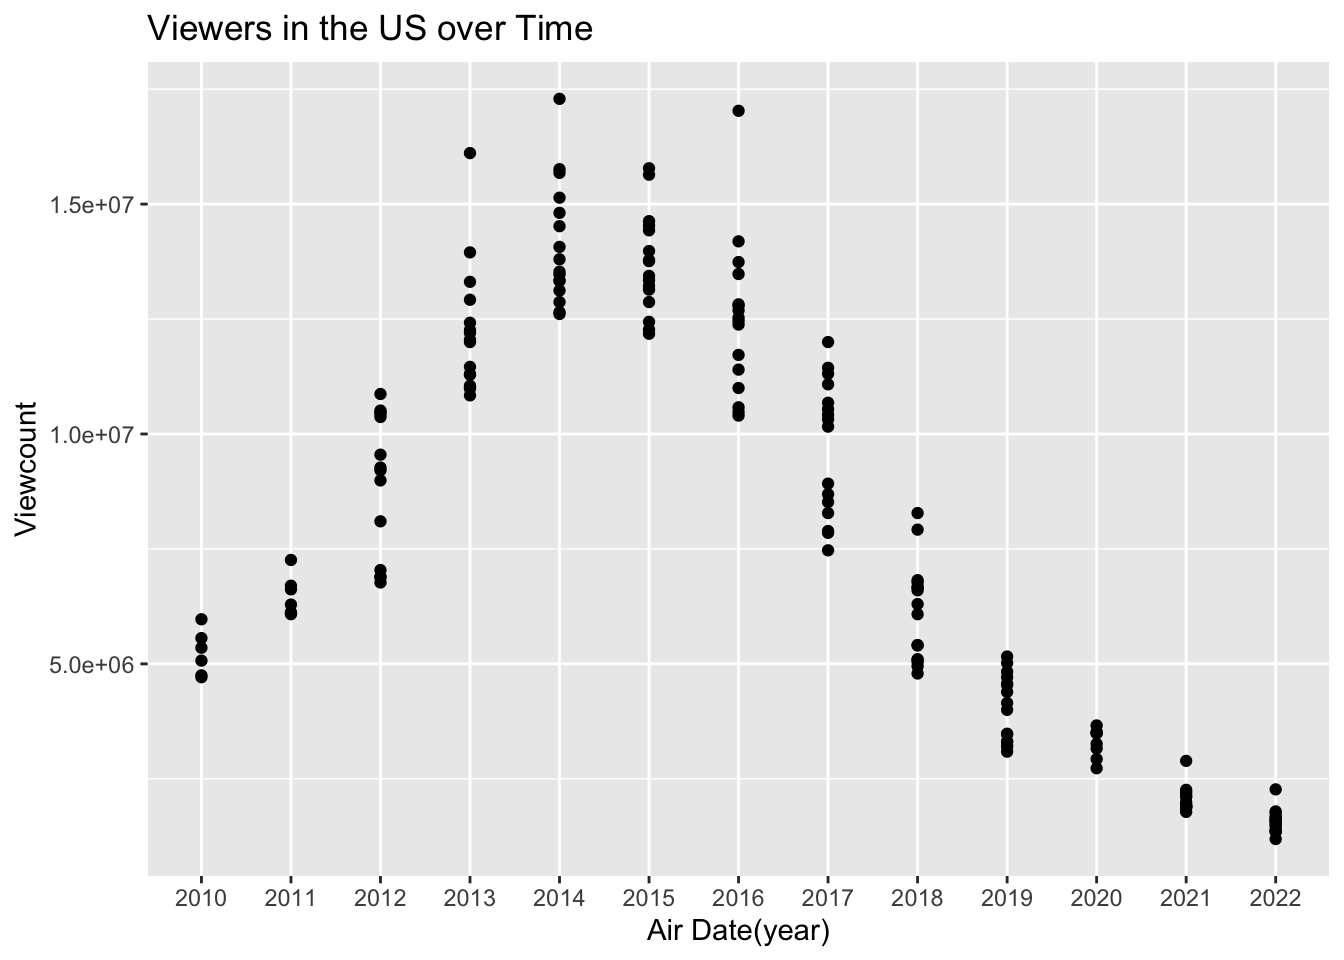
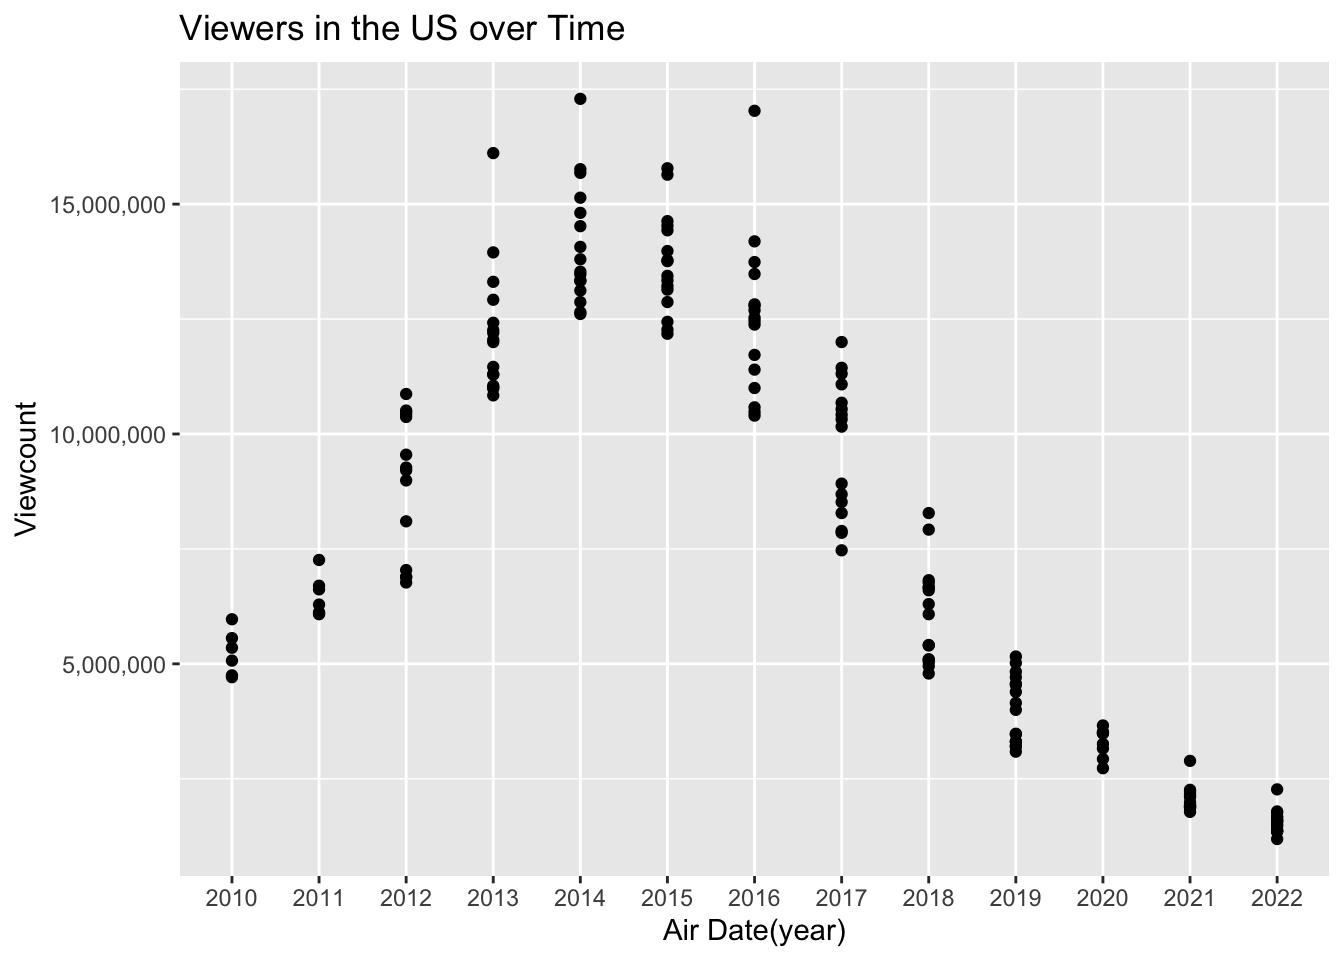
Interim Submission

diff --git a/docs/DataStory.html b/docs/DataStory.html
@@ -119,7 +119,7 @@ ul.task-list li input[type="checkbox"] {
   <ul>
   <li><a href="#the-walking-dead" id="toc-the-walking-dead" class="nav-link active" data-scroll-target="#the-walking-dead">The Walking Dead</a>
   <ul class="collapse">
-  <li><a href="#audience-reception" id="toc-audience-reception" class="nav-link" data-scroll-target="#audience-reception">Audience Reception</a></li>
+  <li><a href="#data-narrative" id="toc-data-narrative" class="nav-link" data-scroll-target="#data-narrative">Data Narrative</a></li>
   <li><a href="#main-question" id="toc-main-question" class="nav-link" data-scroll-target="#main-question">Main Question:</a></li>
   <li><a href="#data-set" id="toc-data-set" class="nav-link" data-scroll-target="#data-set">Data Set</a>
   <ul class="collapse">
@@ -165,9 +165,13 @@ ul.task-list li input[type="checkbox"] {
 </div>
 <p><a href="https://en.wikipedia.org/wiki/The_Walking_Dead_(TV_series)">The Walking Dead</a> is an American TV show that ran for 11 seasons since 2010 and ended with its last episode in 2022. It is set in a <b> post-apocalyptic world </b> and follows a group of survivors.</p>
 <p>The group expands, travels and goes through many moral and physical challenges. Over time, members of this “family” get killed off, resulting in a <b>high emotional reaction</b> among its audience.</p>
-<section id="audience-reception" class="level2">
-<h2 class="anchored" data-anchor-id="audience-reception">Audience Reception</h2>
-<p>This analysis aims to understand the implications of having a loyal fanbase, having a dramatic and gory genre, and having a long run time. It is expected for the show to undergo ups and downs.</p>
+<section id="data-narrative" class="level3">
+<h3 class="anchored" data-anchor-id="data-narrative">Data Narrative</h3>
+<p>This analysis aims to understand the reasons why this well-loved show, given its loyal fanbase, a dramatic and gory genre, and a long run time, experienced a fall from grace.</p>
+<p>According to the <a href="https://www.latimes.com/entertainment-arts/story/2022-11-20/the-walking-dead-took-the-television-revolution-to-a-whole-new-omigod-what-is-that-level">Lost Angeles Times</a>, <strong>The Walking Dead</strong> is a piece of fictional media that is ingrained in the lives of many families in America and internationally - and it was due to its ability to subvert traditional expectations surrounding TV shows.</p>
+<p>Furthermore, in light of the <strong>2023 Writer’s Strike</strong> which aimed at fair compensation and has negatively impacted many productions, <a href="https://www.forbes.com/sites/paultassi/2023/09/02/amc-brokers-a-strike-deal-so-the-walking-dead-can-start-filming-again/?sh=5793fc8c9dc1">Forbes</a> mentioned that its spin-offs were not affected, but I believe that the grievances surrounding writers in America have affected the quality of the show over the years.</p>
+<p>On a personal level, the show is one I grew up with, and I had witnessed first-hand its monumental rise and devastating fall. Towards, the end, I saw a significant drop in engagement worldwide, with <a href="https://www.rollingstone.com/tv-movies/tv-movie-news/the-walking-dead-what-the-hell-happened-to-this-show-627893/">Rolling Stone</a> theorising that its drop in popularity was due to narrative choices.</p>
+<p>However, I want to look at more numerical perspectives.</p>
 </section>
 <section id="main-question" class="level2">
 <h2 class="anchored" data-anchor-id="main-question">Main Question:</h2>
@@ -202,7 +206,7 @@ ul.task-list li input[type="checkbox"] {
 </section>
 <section id="answering-the-question" class="level2">
 <h2 class="anchored" data-anchor-id="answering-the-question">Answering the Question:</h2>
-<p>How to answer?: - comparing variable: <em>“us_viewers”</em> against <em>“original_air_date.”</em> - comparing variable: <em>“directed_by”</em> against <em>“us_viewers”</em> - comparing variable: <em>“written_by”</em> against <em>“us_viewers”</em> - comparing variable: count of <em>“season”</em> against <em>“us_viewers”</em></p>
+<p>How to answer?: - comparing variable: <em>“us_viewers”</em> against <em>“original_air_date.”</em> to see how if a particular year has some significance to the success or failure - comparing variable: <em>“directed_by”</em> against <em>“us_viewers”</em> to see which directors are more influential, and by extension, responsible for its success or failure - comparing variable: <em>“written_by”</em> against <em>“us_viewers”</em> to see which writers are influential and thereby responsible for its success or failure, with focus on narrative elements. - comparing variable: <em>“imdb_rating”</em> against <em>“seasons”</em> to support or challenge the insights from viewcount and draw links to the writers and directors of the show</p>
 <p><em>Click on the <a href="https://nadia-irdina.github.io/nadia-irdina-local.github.io/insights.html">“Insights”</a> page to see results.</em></p>
 
 

diff --git a/docs/insights.html b/docs/insights.html
@@ -165,18 +165,6 @@ ul.task-list li input[type="checkbox"] {
 <p>“original_air_date” indicates the date in which the episode is released, in YEAR-MONTH-DAY format.</p>
 <p>“us_viewers” indicate the number of viewers from the US that watched the episode.</p>
 <div class="cell">
-<div class="cell-output cell-output-stderr">
-<pre><code>── Attaching core tidyverse packages ──────────────────────── tidyverse 2.0.0 ──
-✔ dplyr     1.1.4     ✔ readr     2.1.5
-✔ forcats   1.0.0     ✔ stringr   1.5.1
-✔ ggplot2   3.4.4     ✔ tibble    3.2.1
-✔ lubridate 1.9.3     ✔ tidyr     1.3.1
-✔ purrr     1.0.2     
-── Conflicts ────────────────────────────────────────── tidyverse_conflicts() ──
-✖ dplyr::filter() masks stats::filter()
-✖ dplyr::lag()    masks stats::lag()
-ℹ Use the conflicted package (&lt;http://conflicted.r-lib.org/&gt;) to force all conflicts to become errors</code></pre>
-</div>
 <div class="cell-output cell-output-stdout">
 <pre><code>Rows: 177
 Columns: 8
@@ -194,8 +182,8 @@ $ us_viewers            &lt;dbl&gt; 5350000, 4710000, 5070000, 4750000, 5560000,
 <section id="comparing-viewership-over-time" class="level2">
 <h2 class="anchored" data-anchor-id="comparing-viewership-over-time">Comparing Viewership Over Time</h2>
 <div class="cell">
-<div class="cell-output cell-output-error">
-<pre><code>Error in comma_format(): could not find function "comma_format"</code></pre>
+<div class="cell-output-display">
+<p><img src="insights_files/figure-html/unnamed-chunk-2-1.png" class="img-fluid" width="672"></p>
 </div>
 </div>
 <p>Changing the format of “original_air_date” variable, the episodes are grouped into the years they are released in from season 1 to 11. Since a new season is published every year for 11 years (on average), plotting the viewcount provides insight to where the show succeeded and where it dipped in audience popularity.</p>
@@ -204,20 +192,6 @@ $ us_viewers            &lt;dbl&gt; 5350000, 4710000, 5070000, 4750000, 5560000,
 <h3 class="anchored" data-anchor-id="comparing-viewership-over-time-grouped-by-season">Comparing Viewership Over Time, grouped by Season</h3>
 <p>Colour-coding the seasons in the graph better indicates which seasons won the hearts of audiences. It is evident that seasons 5 and 6 hold popularity among viewers, and more recent releases, such as season 7 onwards, its popularity wavers.</p>
 <div class="cell">
-<div class="cell-output cell-output-stderr">
-<pre><code>
-Attaching package: 'scales'</code></pre>
-</div>
-<div class="cell-output cell-output-stderr">
-<pre><code>The following object is masked from 'package:purrr':
-
-    discard</code></pre>
-</div>
-<div class="cell-output cell-output-stderr">
-<pre><code>The following object is masked from 'package:readr':
-
-    col_factor</code></pre>
-</div>
 <div class="cell-output-display">
 <p><img src="insights_files/figure-html/unnamed-chunk-3-1.png" class="img-fluid" width="672"></p>
 </div>
